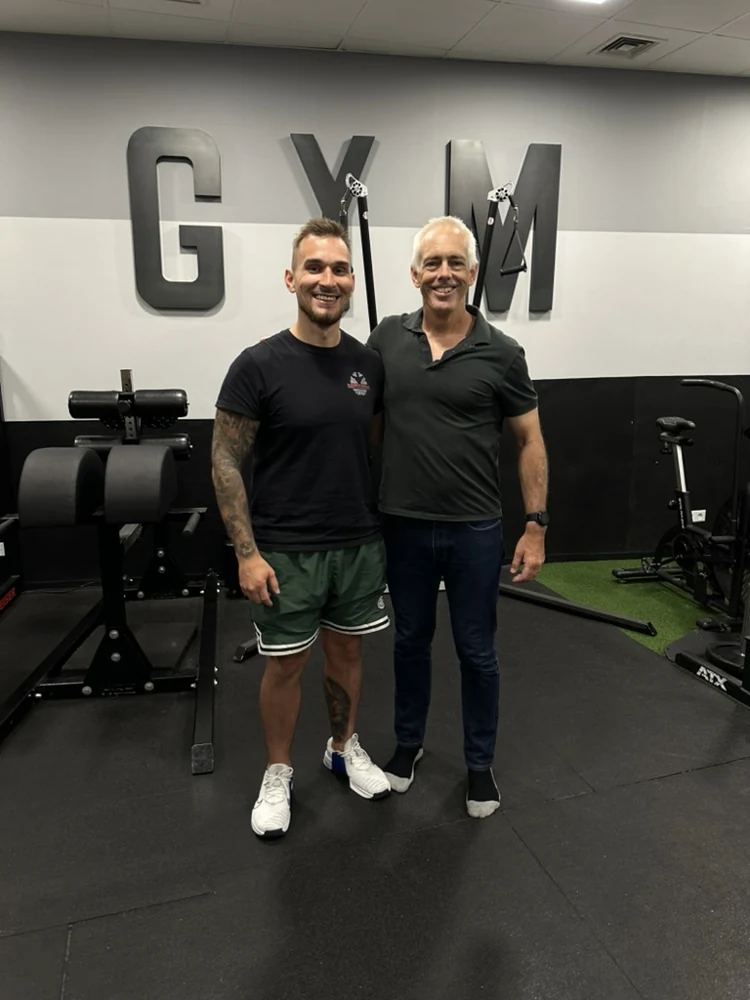
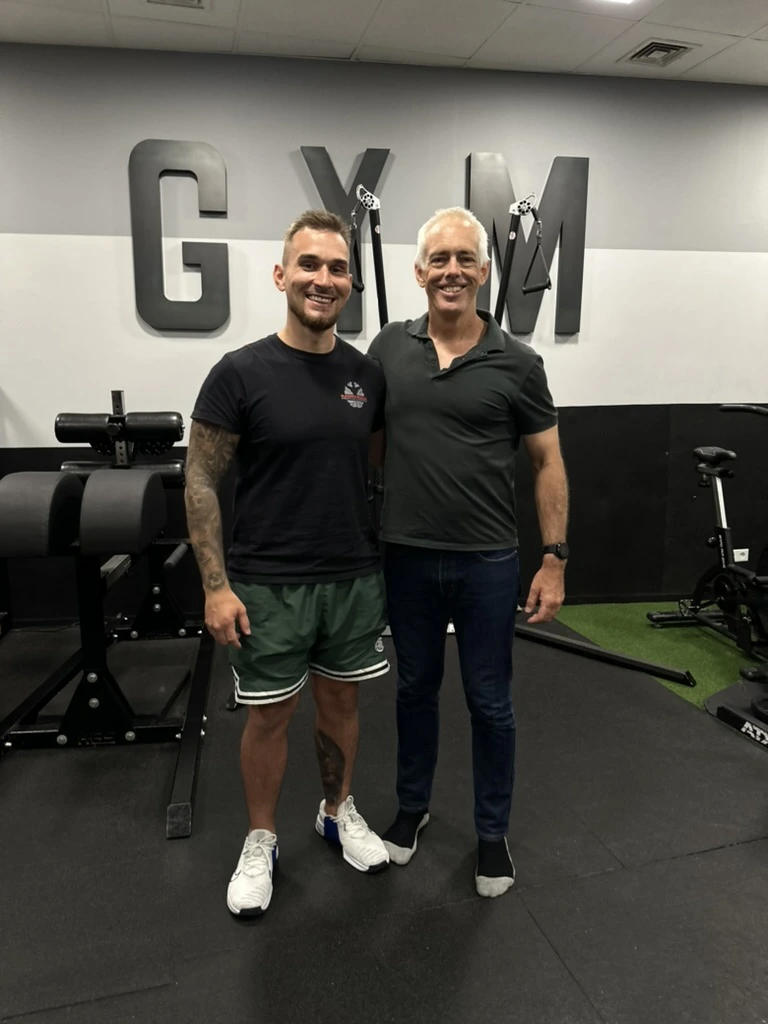
Refresh expert card photos with named originals and add Luis Mesquita

diff --git a/index.html b/index.html
@@ -95,11 +95,11 @@
     </div>
     <ul class="qualifications-grid" id="training">
       <li class="qualification-card"><h3>Daru Phil</h3><span class="sr-only"> </span><p class="qualification-program">Mentorship</p> <p class="qualification-meta">(2020)</p></li>
-      <li class="qualification-card"><h3>Luis Mesquita</h3><span class="sr-only"> - </span><p class="qualification-program">Bridging the Gap in Speed and Agility Development</p> <p class="qualification-meta">(Krakow, Polsko 2023 + Hradec Králové, CZE 2024)</p></li>
-      <li class="qualification-card has-speaker-photo"><img class="qualification-photo" src="assets/images/qualification-tim-gabbett.webp" alt="" loading="lazy" decoding="async"><h3>Tim Gabbett</h3><span class="sr-only"> - </span><p class="qualification-program">Training performance puzzle</p> <p class="qualification-meta">(Krakow, Polsko 2024)</p></li>
+      <li class="qualification-card has-speaker-photo"><img class="qualification-photo" src="assets/images/qualification-luis-mesquita.webp" alt="" loading="lazy" decoding="async"><h3>Luis Mesquita</h3><span class="sr-only"> - </span><p class="qualification-program">Bridging the Gap in Speed and Agility Development</p> <p class="qualification-meta">(Krakow, Polsko 2023 + Hradec Králové, CZE 2024)</p></li>
+      <li class="qualification-card has-speaker-photo"><img class="qualification-photo" src="assets/images/qualification-tim-gabbett.webp?v=2" alt="" loading="lazy" decoding="async"><h3>Tim Gabbett</h3><span class="sr-only"> - </span><p class="qualification-program">Training performance puzzle</p> <p class="qualification-meta">(Krakow, Polsko 2024)</p></li>
       <li class="qualification-card has-speaker-photo"><img class="qualification-photo" src="assets/images/qualification-alex-natera.webp" alt="" loading="lazy" decoding="async"><h3>Alex Natera</h3><span class="sr-only"> - </span><p class="qualification-program">Isometric strength training</p> <p class="qualification-meta">(Bratislava, Slovensko 2024)</p></li>
-      <li class="qualification-card has-speaker-photo"><img class="qualification-photo qualification-photo-cal" src="assets/images/qualification-cal-dietz.webp" alt="" loading="lazy" decoding="async"><h3>Cal Dietz</h3><span class="sr-only"> - </span><p class="qualification-program">Results-based training</p> <p class="qualification-meta">(Hennef, Německo 2023)</p></li>
-      <li class="qualification-card has-speaker-photo"><img class="qualification-photo" src="assets/images/qualification-jordan-shallow.webp" alt="" loading="lazy" decoding="async"><h3>Jordan Shallow</h3><span class="sr-only"> - </span><p class="qualification-program">The Prescript intense</p> <p class="qualification-meta">(Brno, CZE 2024)</p></li>
+      <li class="qualification-card has-speaker-photo"><img class="qualification-photo qualification-photo-cal" src="assets/images/qualification-cal-dietz.webp?v=2" alt="" loading="lazy" decoding="async"><h3>Cal Dietz</h3><span class="sr-only"> - </span><p class="qualification-program">Results-based training</p> <p class="qualification-meta">(Hennef, Německo 2023)</p></li>
+      <li class="qualification-card has-speaker-photo"><img class="qualification-photo" src="assets/images/qualification-jordan-shallow.webp?v=2" alt="" loading="lazy" decoding="async"><h3>Jordan Shallow</h3><span class="sr-only"> - </span><p class="qualification-program">The Prescript intense</p> <p class="qualification-meta">(Brno, CZE 2024)</p></li>
     </ul>
     <details class="certs-more">
       <summary aria-controls="additional-education"><span class="certs-show">Zobrazit další vzdělávání</span><span class="certs-hide">Skrýt další vzdělávání</span></summary>
